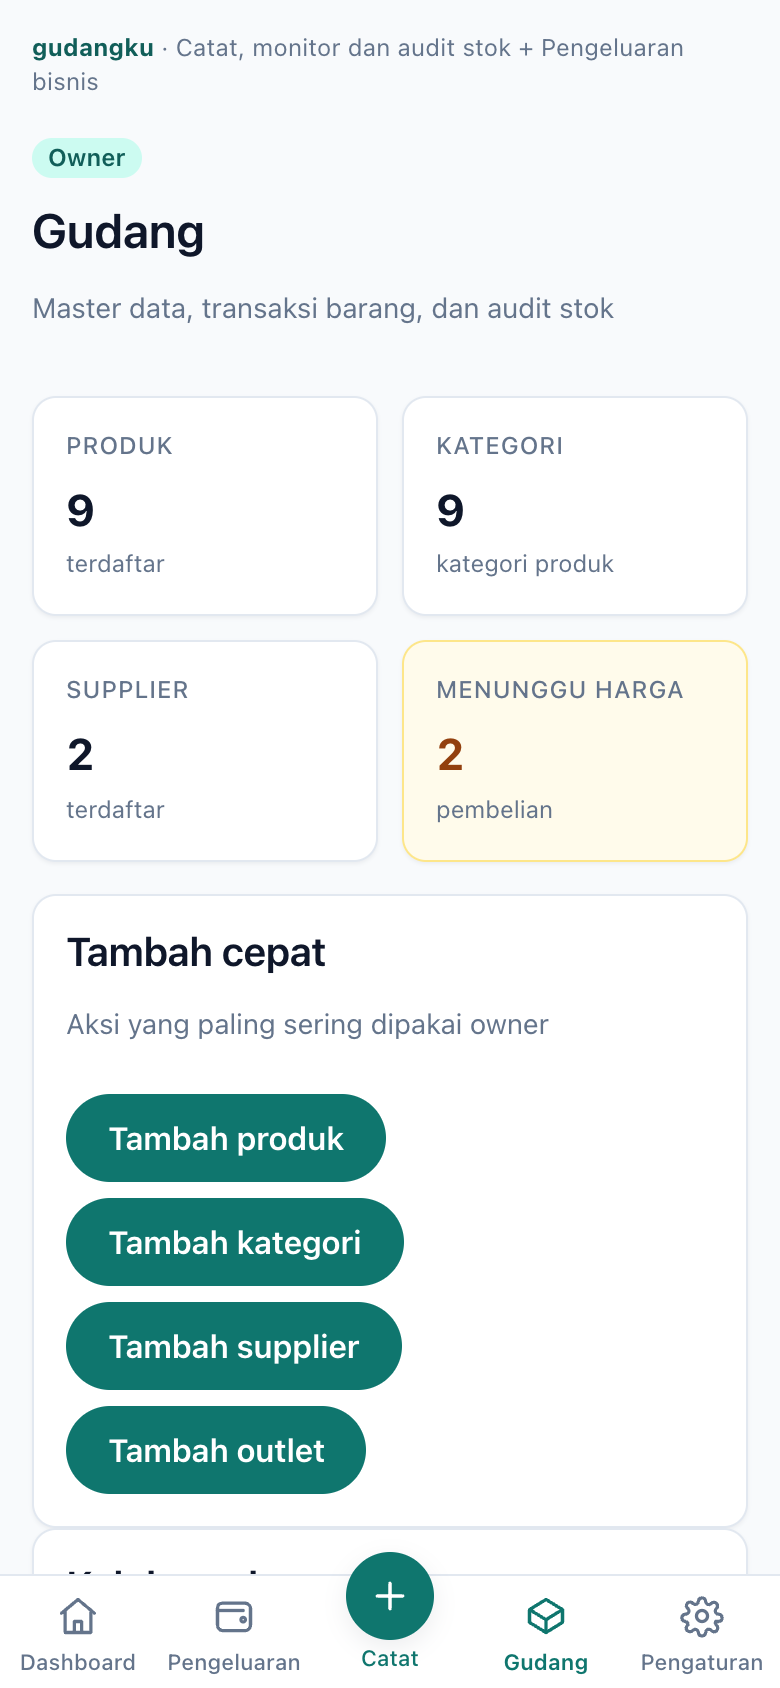
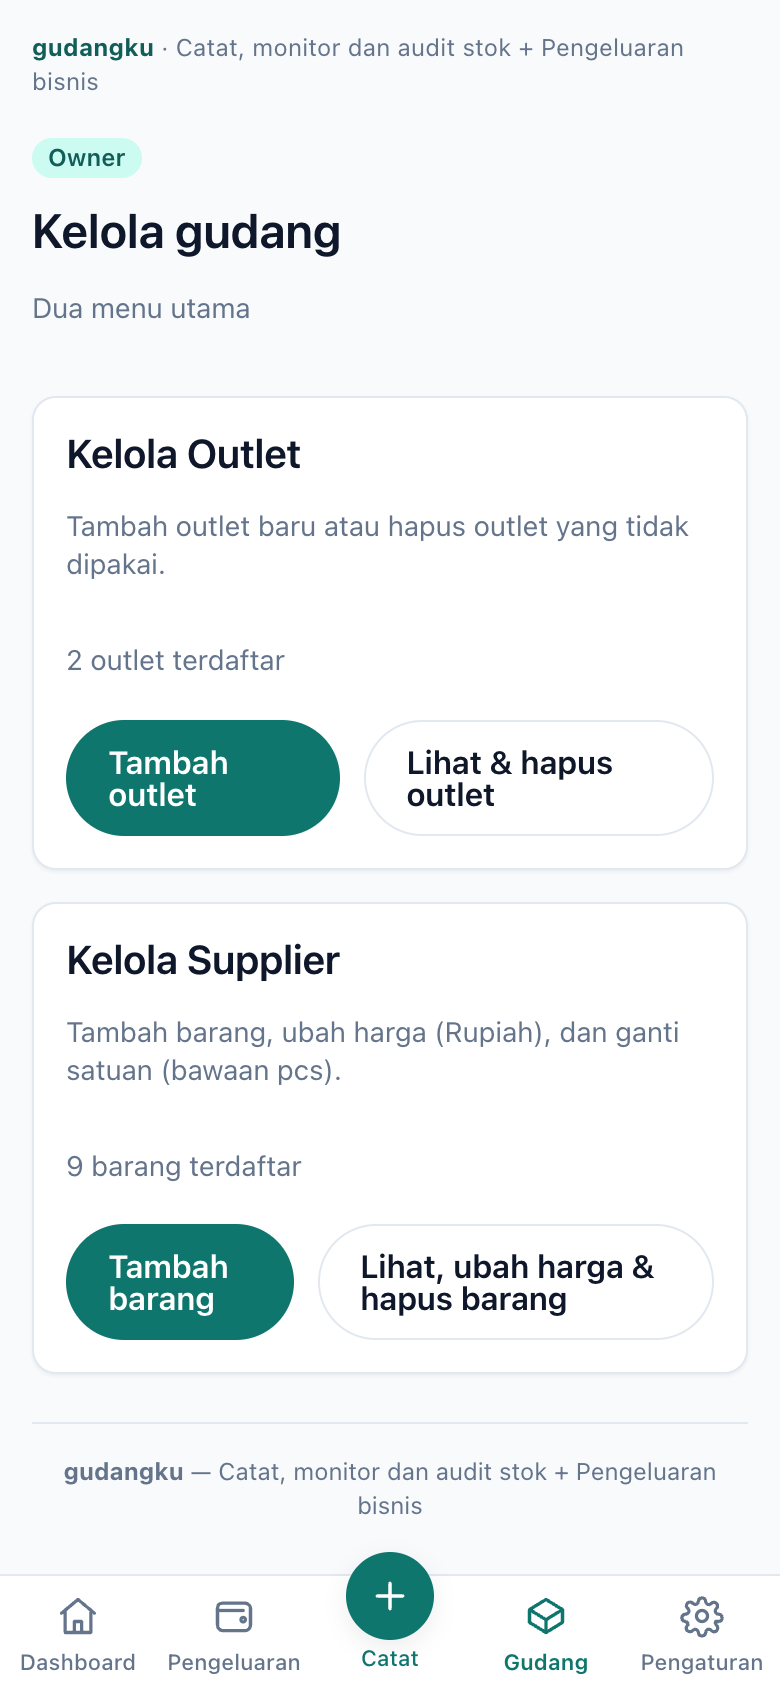
docs: simplified warehouse screenshots

diff --git a/docs/PRESENTASI.md b/docs/PRESENTASI.md
@@ -190,6 +190,8 @@ Semua file di `docs/screenshots/`, diambil pada viewport 390×844 (2× DPR) mema
 | `01-login.png` | Form login, state default |
 | `15-login-tagline.png` | Tagline aplikasi di layar login |
 | `17-warehouse.png` | Menu Gudang: hanya dua menu, Kelola Outlet dan Kelola Supplier |
+| `20-barang.png` | Halaman barang: kolom Barang, Kategori, Satuan, Stok, Min, Harga beli |
+| `21-outlet.png` | Halaman outlet tanpa kolom transaksi yang membingungkan |
 | `18-tambah-kategori.png` | Form tambah kategori terbuka langsung dari menu Gudang |
 | `19-tambah-outlet.png` | Form tambah outlet terbuka langsung dari menu Gudang |
 | `16-dashboard-tagline.png` | Tagline di header aplikasi (dashboard owner) |
